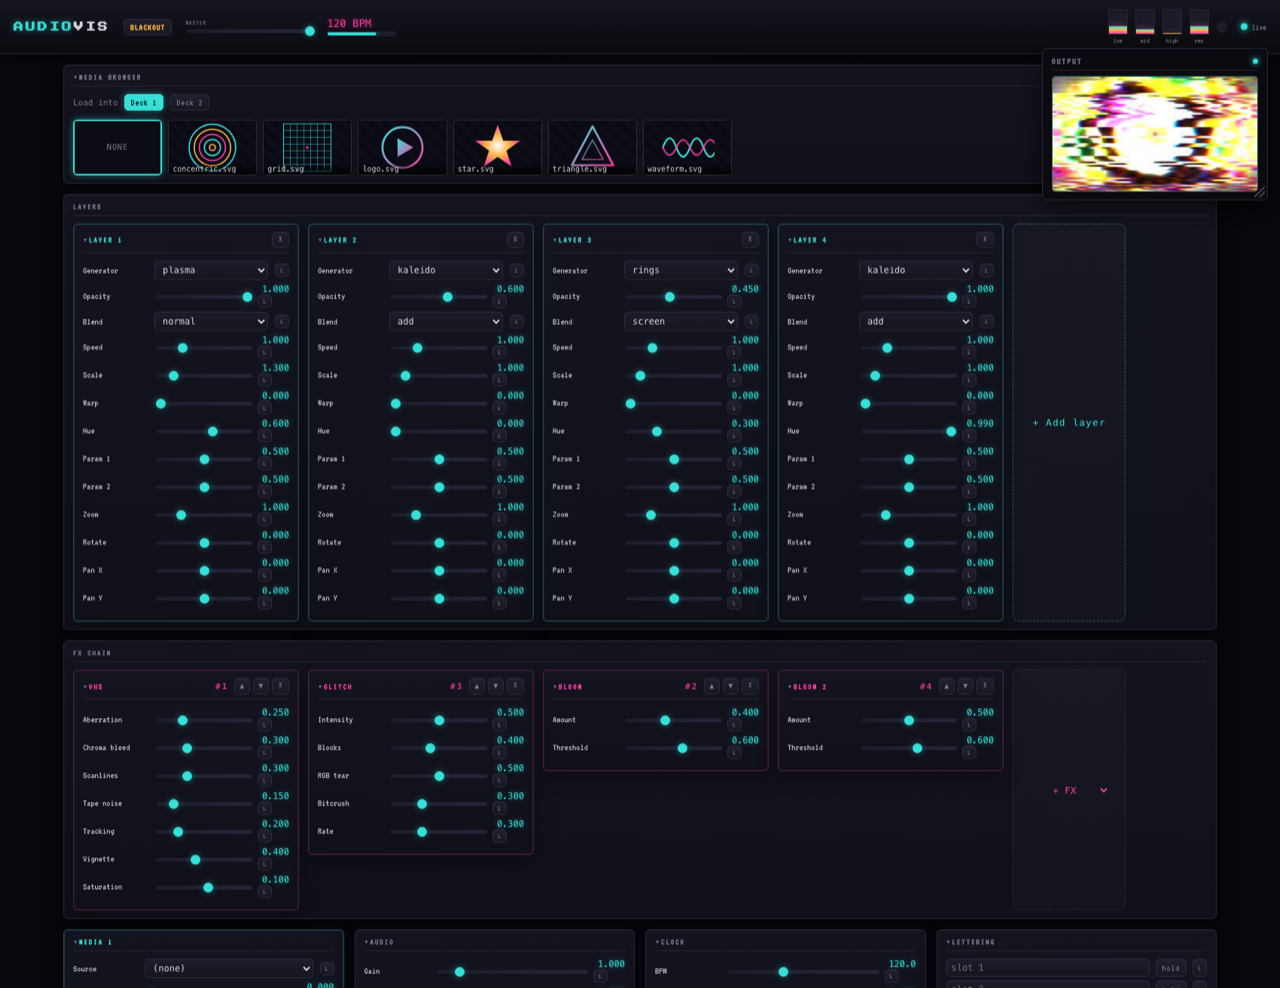
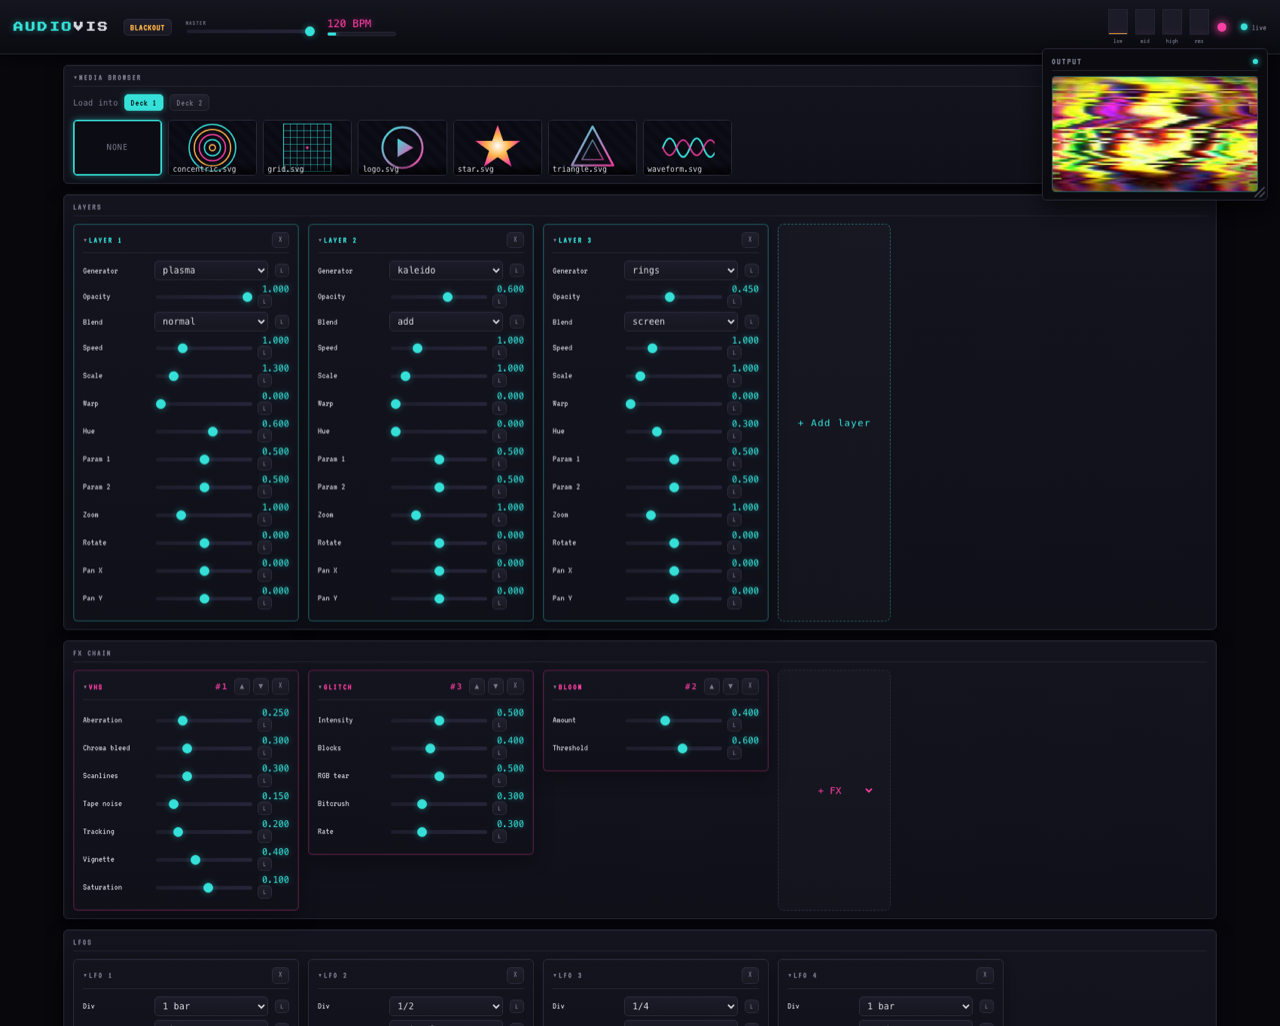
Docs: dynamic LFOs in the README + UI screenshot with the three racks

diff --git a/README.md b/README.md
@@ -99,8 +99,9 @@ depth and smoothing:
 
 - **audio** — low / mid / high bands, RMS, onset, all auto-gained;
 - **beat clock** — phase, locked to incoming MIDI clock or free-running;
-- **six LFOs** — nine waveforms (sine, triangle, saw up/down, square, pulse,
-  sample-&-hold, smooth-noise, steps), tempo-synced to musical divisions.
+- **up to eight LFOs** — nine waveforms (sine, triangle, saw up/down, square,
+  pulse, sample-&-hold, smooth-noise, steps), tempo-synced to musical divisions;
+  add and remove them from the LFO rack like layers and effects.
 
 Per-layer **transforms** (zoom / rotate / pan) and a **lettering bank** — eight
 MIDI-note-gated text slots (show on note-on, hide on note-off), seven baked